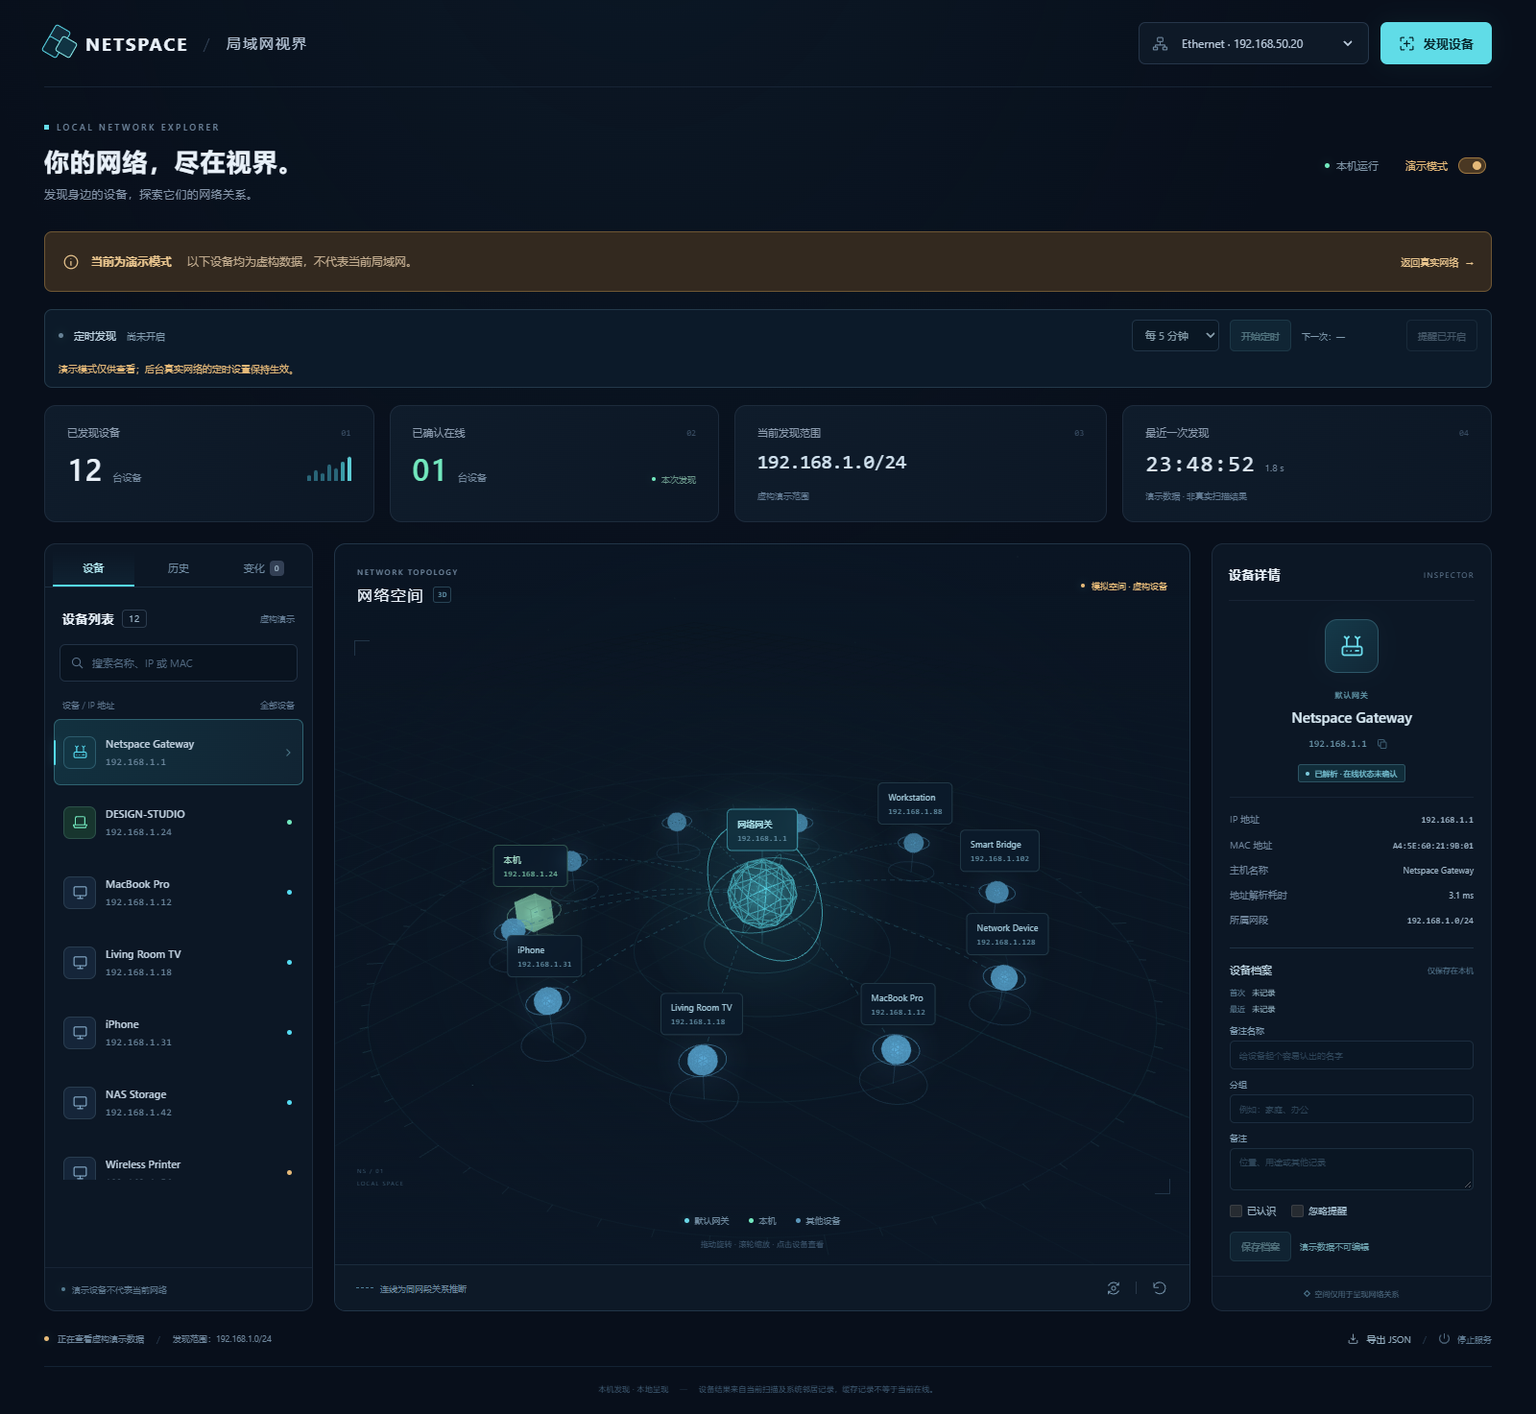
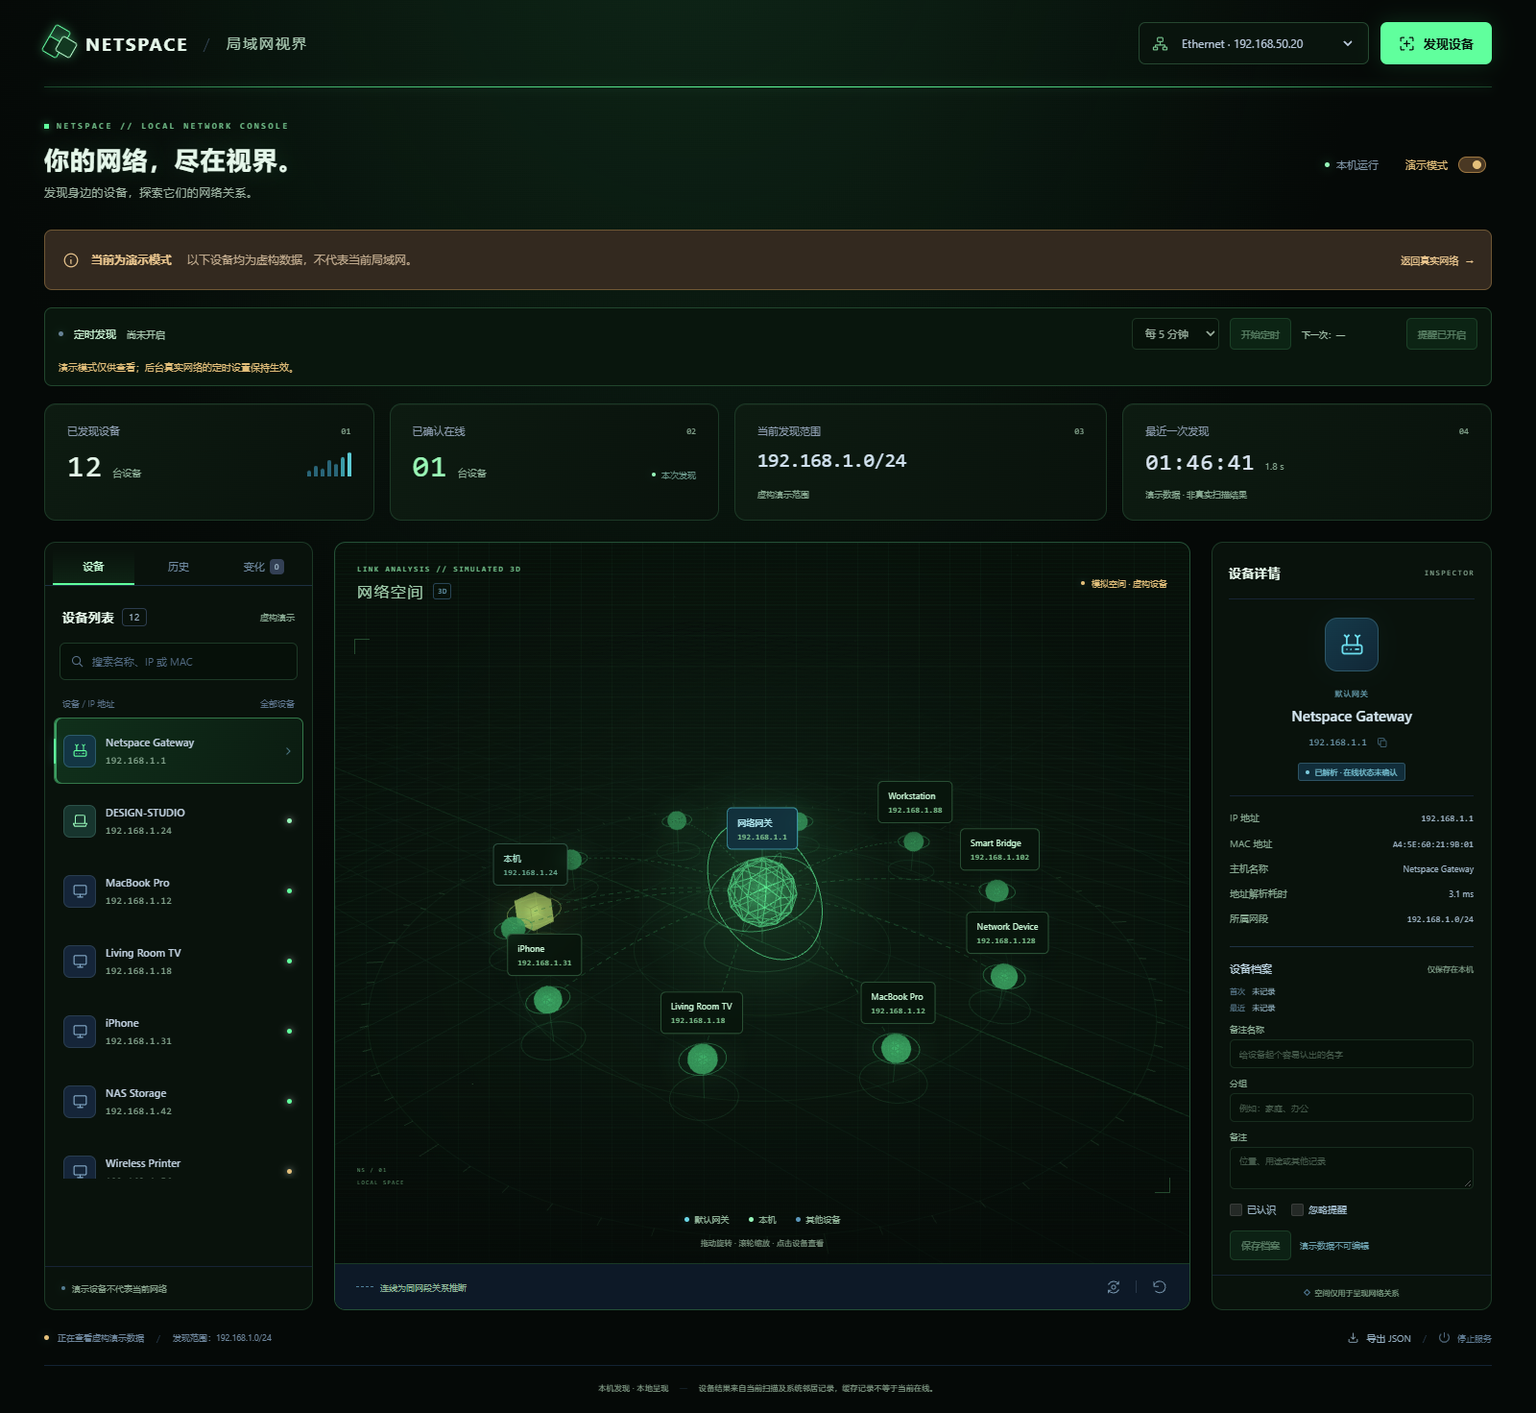
feat: apply hacker console theme

diff --git a/web/style.css b/web/style.css
@@ -8,3 +8,58 @@
 @media(max-width:1050px){.details-panel{max-height:none}.detail-content{overflow:visible;grid-template-columns:180px 1fr}.profile-form{grid-column:1/-1;grid-template-columns:1fr 1fr;column-gap:20px}.profile-heading,.observation-times,.profile-save-row{grid-column:1/-1}.profile-form>label:has(textarea){grid-column:1/-1}.profile-flags{grid-column:1/-1}.profile-save-row{padding-bottom:4px}.evidence-section{grid-column:1/-1}.detail-identity{grid-row:1/3}.observation-times{display:flex;justify-content:space-between;flex-wrap:wrap}.monitor-controls{gap:8px}}
 @media(max-width:760px){.monitor-toolbar{padding:11px 12px;gap:9px;margin-bottom:16px}.monitor-title{width:100%;gap:9px;font-size:9px}.monitor-controls{width:100%;flex-wrap:wrap;gap:8px}.monitor-controls select{height:35px;flex:1;font-size:10px}.monitor-controls .compact-button{min-height:35px}#monitor-next{order:4;width:100%;font-size:9px}.monitor-title #monitor-status{margin-left:auto;font-size:9px}.workspace-tabs>button{min-height:42px;font-size:12px}.archive-controls{padding-top:13px}.archive-controls label{font-size:10px}.archive-controls select{height:39px;font-size:11px}.archive-pane{min-height:320px}.archive-heading h2{font-size:13px}.archive-help{font-size:11px}.event-list{max-height:350px}.event-name{font-size:11px}.event-header{font-size:10px}.event-address{font-size:10px}#history-scan{min-height:215px}.replay-banner{padding:12px;gap:8px;flex-wrap:wrap}.replay-banner p{font-size:10px}.replay-banner button{margin-left:26px;font-size:10px;min-height:28px}.detail-content{grid-template-columns:112px 1fr}.profile-form{column-gap:12px;padding-top:17px;gap:11px}.profile-heading h4{font-size:12px}.profile-form>label{font-size:10px}.profile-form input:not([type=checkbox]){height:37px;font-size:11px}.profile-form textarea{font-size:11px;min-height:55px}.profile-flags{font-size:11px;gap:20px}.profile-flags label{min-height:32px}.profile-save-row .compact-button{min-height:37px;font-size:11px}.profile-save-row>span{font-size:10px}.observation-times{display:grid;gap:4px;font-size:9px}.detail-content .detail-properties{padding-top:24px}.details-panel .panel-heading{margin:0 16px}}
 @media(prefers-reduced-motion:reduce){*,*:before,*:after{animation:none!important;transition:none!important;scroll-behavior:auto!important}}
+
+/* NetSpace 1.2.0: terminal console palette */
+:root{--bg:#050907;--surface:#09120c;--line:#1c3926;--text:#e5f7ea;--muted:#91a694;--accent:#60ff9d;--cyan:var(--accent);--mint:#96f7b9;--amber:#e3bf7a}
+body{background-color:var(--bg);background-image:radial-gradient(ellipse at 42% -22%,#12351f55,transparent 55%)}
+body:before{background:radial-gradient(ellipse at 46% -20%,#1a492b55,transparent 58%)}
+.topbar{border-bottom-color:#19452a;position:relative}
+.topbar:after{position:absolute;content:"";height:1px;left:0;right:0;bottom:-1px;background:linear-gradient(90deg,transparent,#60ff9d88 18%,#60ff9d 50%,#60ff9d88 82%,transparent);box-shadow:0 0 10px #60ff9d55}
+.brand-mark span{border-color:#65ffa3;filter:drop-shadow(0 0 5px #60ff9d55)}
+.brand-mark span:first-child{background:#153323}.brand-mark span:nth-child(2){background:#0a1d11}.brand-mark span:last-child{background:#123921;border-color:#baffd0}
+.brand-chinese{color:#a8c8b1}
+.workspace-heading .eyebrow,.scene-heading .eyebrow{color:#6eb985}
+.tiny-square{background:var(--accent);box-shadow:0 0 8px #60ff9d88}
+.workspace-heading h1{text-shadow:0 0 22px #60ff9d1c}
+.page-subtitle{color:#9bb1a0}
+.button-primary{background:#60ff9d;color:#06110a;box-shadow:0 0 22px #39f68124}
+.button-primary:hover:not(:disabled){background:#8affb5;box-shadow:0 0 24px #60ff9d55}
+.button-secondary{background:#10271a;border-color:#28633d;color:#a9ffd0}
+.adapter-control{background:#09140d;border-color:#254730}
+.adapter-control .icon{color:#79c892}
+.adapter-control option{background:#09140d}
+.workspace-tools .status-dot,.local-badge .status-dot{box-shadow:0 0 11px #60ff9d77}
+.stat-card{background:linear-gradient(112deg,#0d1b11,#09120c);border-color:#1c3926;box-shadow:inset 0 1px #b3ffd00a}
+.panel{background:#09120c;border-color:#1c3926}
+.scene-panel{border-color:#245036;background:radial-gradient(ellipse at 50% 50%,#15331e66,#07100a 76%)}
+.scene-view:before{content:"";position:absolute;inset:0;pointer-events:none;z-index:1;opacity:.64;background-image:linear-gradient(to right,#62ff9d0d 1px,transparent 1px),linear-gradient(to bottom,#62ff9d0d 1px,transparent 1px);background-size:32px 32px}
+.scene-view:after{background:linear-gradient(#05100912,transparent 25%,transparent 70%,#050907b8),repeating-linear-gradient(0deg,#60ff9d05 0,#60ff9d05 1px,transparent 1px,transparent 4px)}
+.scene-heading h2,.scene-mode{color:#9fcbaa}
+.scene-coordinates{color:#5d966b}
+.scene-corner{border-color:#418553}
+.scene-node-label{border-color:#356442bb;background:#07140bcc;color:#c9f7d6;box-shadow:0 5px 18px #0008,0 0 14px #60ff9d12}
+.scene-node-label:hover,.scene-node-label:focus-visible{background:#102719ed;border-color:#69e98f;box-shadow:0 0 16px #60ff9d33}
+.scene-node-label .node-label-ip{color:#83c993}
+.device-row:hover{background:#0c1d11;border-color:#1e432a}
+.device-row[aria-pressed=true]{border-color:#34784a;background:linear-gradient(105deg,#10301b,#0b1c11);box-shadow:inset 2px 0 #60ff9d88}
+.device-row-status{box-shadow:0 0 8px currentColor}
+.search-field{background:#061009;border-color:#1d3a27}
+.search-field:focus-within{border-color:#45bc6d;box-shadow:0 0 0 2px #60ff9d1c}
+.monitor-toolbar{background:#09160d;border-color:#21462d;color:#a6c4ad}
+.monitor-title strong{color:#c7efd0}
+.monitor-controls select,.archive-controls select,.profile-form input:not([type=checkbox]),.profile-form textarea{background:#061009;border-color:#25432e;color:#d2ead7}
+.compact-button{background:#10351e;border-color:#34784a;color:#baffce}
+.compact-button:hover:not(:disabled){background:#164a28;border-color:#54b86e}
+.workspace-tabs>button[aria-selected=true]{background:linear-gradient(transparent,#18452655)}
+.workspace-tabs>button{border-bottom-color:transparent}
+.workspace-tabs>button[aria-selected=true]{border-bottom-color:var(--accent);color:#c7ffd7}
+.scene-bottom,.workspace-footer{border-color:#193a25}
+.relation-note,.scene-legend{color:#91b59a}
+.details-bottom{color:#82a68b}
+.stat-number.mint,.mint{color:#9af7b6}
+.mono,.stat-number,.stat-cidr,.stat-time,.stat-index,.eyebrow,.detail-kicker,.scene-coordinates{font-family:"Cascadia Code",Consolas,"SFMono-Regular",monospace}
+.micro-label,.detail-kicker,.stat-index,.stat-caption,.stat-unit,.device-row-ip,.detail-properties dt,.profile-heading>span,.profile-form>label{color:#87a891}
+.profile-form input::placeholder,.profile-form textarea::placeholder{color:#71907a}
+.device-panel-bottom,.privacy-note,.scene-interaction-hint{color:#85a08a}
+.button:focus-visible,.compact-button:focus-visible,.icon-button:focus-visible,.text-button:focus-visible{outline-color:#81ffad}
+@media(prefers-reduced-motion:reduce){.scene-view:before,.scene-view:after{animation:none!important}}

diff --git a/web/scene.js b/web/scene.js
@@ -1,7 +1,7 @@
 import * as THREE from 'three';
 import { OrbitControls } from '/vendor/OrbitControls.js';
 
-const COLORS = { gateway: 0x58d9e9, self: 0x9cf4cb, device: 0x65bff1 };
+const COLORS = { gateway: 0x63ff9e, self: 0xd9ff80, device: 0x47c977 };
 const TAU = Math.PI * 2;
 
 function getSatellitePosition(index, count) {
@@ -39,14 +39,14 @@ export function createNetworkScene({ container, labels, onSelect = () => {} }) {
   const reducedMotion = window.matchMedia('(prefers-reduced-motion: reduce)');
   const renderer = new THREE.WebGLRenderer({ antialias: true, alpha: true, powerPreference: 'low-power' });
   renderer.setPixelRatio(Math.min(window.devicePixelRatio || 1, 1.75));
-  renderer.setClearColor(0x071019, 0);
+  renderer.setClearColor(0x050907, 0);
   renderer.outputColorSpace = THREE.SRGBColorSpace;
   renderer.domElement.setAttribute('aria-label', '模拟网络关系空间；可拖动旋转、滚轮缩放，或在设备列表中选择设备');
   renderer.domElement.setAttribute('role', 'img');
   container.appendChild(renderer.domElement);
 
   const scene = new THREE.Scene();
-  scene.fog = new THREE.FogExp2(0x071019, 0.026);
+  scene.fog = new THREE.FogExp2(0x050907, 0.026);
   const camera = new THREE.PerspectiveCamera(45, 1, 0.1, 110);
   const home = new THREE.Vector3(12.5, 10.5, 15.5);
   camera.position.copy(home);
@@ -68,7 +68,7 @@ export function createNetworkScene({ container, labels, onSelect = () => {} }) {
   const linkGroup = new THREE.Group();
   scene.add(atmosphere, linkGroup, nodeGroup);
 
-  const grid = new THREE.GridHelper(66, 44, 0x164553, 0x102c38);
+  const grid = new THREE.GridHelper(66, 44, 0x23683b, 0x123321);
   grid.material.transparent = true;
   grid.material.opacity = 0.5;
   atmosphere.add(grid);
@@ -86,7 +86,7 @@ export function createNetworkScene({ container, labels, onSelect = () => {} }) {
   }
 
   [3.3, 6.2, 9.5, 13.2].forEach((radius, i) => {
-    atmosphere.add(lineRing(radius, 0x236879, 0.23 - i * 0.025));
+    atmosphere.add(lineRing(radius, 0x287344, 0.23 - i * 0.025));
   });
 
   // Short ticks give the floor a calibrated visual rhythm without implying distance.
@@ -100,7 +100,7 @@ export function createNetworkScene({ container, labels, onSelect = () => {} }) {
   }
   atmosphere.add(new THREE.LineSegments(
     new THREE.BufferGeometry().setFromPoints(tickPoints),
-    new THREE.LineBasicMaterial({ color: 0x3b7a87, transparent: true, opacity: 0.3 })
+    new THREE.LineBasicMaterial({ color: 0x55a96a, transparent: true, opacity: 0.3 })
   ));
 
   const starPositions = new Float32Array(105 * 3);
@@ -113,7 +113,7 @@ export function createNetworkScene({ container, labels, onSelect = () => {} }) {
   }
   const starsGeometry = new THREE.BufferGeometry();
   starsGeometry.setAttribute('position', new THREE.BufferAttribute(starPositions, 3));
-  atmosphere.add(new THREE.Points(starsGeometry, new THREE.PointsMaterial({ color: 0x78c4d4, size: 0.035, transparent: true, opacity: 0.4, depthWrite: false })));
+  atmosphere.add(new THREE.Points(starsGeometry, new THREE.PointsMaterial({ color: 0x75d88f, size: 0.035, transparent: true, opacity: 0.4, depthWrite: false })));
 
   const glowCanvas = document.createElement('canvas');
   glowCanvas.width = glowCanvas.height = 128;
@@ -270,7 +270,7 @@ export function createNetworkScene({ container, labels, onSelect = () => {} }) {
       const midpoint = start.clone().lerp(end, 0.5);
       midpoint.y += Math.min(start.distanceTo(end) * 0.12, 1.1);
       const curve = new THREE.QuadraticBezierCurve3(start, midpoint, end);
-      const material = new THREE.LineDashedMaterial({ color: 0x347d91, transparent: true, opacity: 0.45, dashSize: 0.12, gapSize: 0.1, depthWrite: false });
+      const material = new THREE.LineDashedMaterial({ color: 0x318c50, transparent: true, opacity: 0.48, dashSize: 0.12, gapSize: 0.1, depthWrite: false });
       const line = new THREE.Line(new THREE.BufferGeometry().setFromPoints(curve.getPoints(55)), material);
       line.computeLineDistances();
       line.userData.source = String(link.source);

diff --git a/web/index.html b/web/index.html
@@ -3,7 +3,7 @@
 <head>
   <meta charset="UTF-8">
   <meta name="viewport" content="width=device-width, initial-scale=1">
-  <meta name="theme-color" content="#080f1b">
+  <meta name="theme-color" content="#050907">
   <meta name="description" content="本机局域网设备发现与三维网络关系可视化。空间位置为模拟布局。">
   <title>NETSPACE · 局域网视界</title>
   <link rel="stylesheet" href="/style.css">
@@ -47,7 +47,7 @@
 
     <main id="main">
       <section class="workspace-heading" aria-labelledby="page-title">
-        <div><div class="eyebrow"><span class="tiny-square"></span> LOCAL NETWORK EXPLORER</div><h1 id="page-title">你的网络，尽在视界。</h1><p class="page-subtitle">发现身边的设备，探索它们的网络关系。</p></div>
+        <div><div class="eyebrow"><span class="tiny-square"></span> NETSPACE // LOCAL NETWORK CONSOLE</div><h1 id="page-title">你的网络，尽在视界。</h1><p class="page-subtitle">发现身边的设备，探索它们的网络关系。</p></div>
         <div class="workspace-tools"><span class="local-badge"><span class="status-dot"></span>本机运行</span><button class="demo-switch" id="demo-toggle" type="button" role="switch" aria-checked="false"><span>演示模式</span><span class="switch-track" aria-hidden="true"><span></span></span></button></div>
       </section>
 
@@ -84,7 +84,7 @@
         </aside>
 
         <section class="scene-panel" aria-labelledby="scene-title">
-          <div class="scene-heading"><div><div class="eyebrow">NETWORK TOPOLOGY</div><h2 id="scene-title">网络空间 <span class="space-badge">3D</span></h2></div><span class="scene-mode" id="scene-mode"><span></span>模拟空间 · 真实设备</span></div>
+          <div class="scene-heading"><div><div class="eyebrow">LINK ANALYSIS // SIMULATED 3D</div><h2 id="scene-title">网络空间 <span class="space-badge">3D</span></h2></div><span class="scene-mode" id="scene-mode"><span></span>模拟空间 · 真实设备</span></div>
           <div id="scan-progress" class="scan-progress" hidden><div class="scan-progress-label"><span class="loading-ring"></span><span id="progress-message">正在发现设备…</span><span id="progress-number"></span></div><div class="progress-track"><span id="progress-bar"></span></div></div>
           <div class="scene-view" id="scene-view">
             <div id="scene-canvas" aria-hidden="true"></div>

diff --git a/tools/packaged_smoke.py b/tools/packaged_smoke.py
@@ -55,7 +55,7 @@ def main():
                 raise RuntimeError('Packaged application exited before startup')
             try:
                 health = request('/api/health', timeout=1)
-                assert health == {'app': 'NetSpace', 'version': '1.1.0'}
+                assert health == {'app': 'NetSpace', 'version': '1.2.0'}
                 break
             except Exception:
                 if time.monotonic() > deadline:

diff --git a/app.py b/app.py
@@ -20,7 +20,7 @@ from monitoring import MonitorController
 from network_store import NetworkStore
 
 
-VERSION = '1.1.0'
+VERSION = '1.2.0'
 RESOURCE_ROOT = Path(getattr(sys, '_MEIPASS', Path(__file__).resolve().parent))
 WEB_ROOT = RESOURCE_ROOT / 'web'
 LOGGER = logging.getLogger('netspace')

diff --git a/docs/superpowers/plans/2026-11-20-netspace-hacker-iterations.md b/docs/superpowers/plans/2026-11-20-netspace-hacker-iterations.md
@@ -1,0 +1,45 @@
+# NetSpace Hacker Style and Security Iteration Plan
+
+> **For agentic workers:** Follow the three ordered iterations below. Each iteration ends with verification, a README update, a separate commit on `main`, and a push to `origin/main`.
+
+**Goal:** Give NetSpace a distinctive hacker-style Windows UI, add useful device filtering, and improve browser-side security without changing LAN discovery boundaries.
+
+**Architecture:** Preserve the local Python HTTP service and offline frontend. Use CSS tokens for the new visual system, a client-side status filter over the existing device result, and one shared response header for a restrictive CSP.
+
+**Tech Stack:** Python 3.8 standard library, unittest, HTML/CSS/ES modules, Three.js 0.187.0, Playwright Chromium.
+
+---
+
+### Iteration 1: Hacker console UI (1.2.0)
+
+**Files:** `web/style.css`, `web/index.html`, `web/scene.js`, `app.py`, `tools/packaged_smoke.py`, `README.md`, `docs/images/netspace-demo.png`, `docs/superpowers/specs/2026-11-20-netspace-hacker-iterations-design.md`, `tools/ui_smoke.cjs`.
+
+- [x] Apply a black/green terminal theme with shared CSS tokens, clear focus states, reduced-motion support, and restrained topology grid/scanline styling.
+- [x] Update the browser theme color and app version to 1.2.0.
+- [x] Run the existing browser smoke check against isolated demo fixtures; verify screenshot, no horizontal overflow at 375px, no external requests and no JS errors.
+- [x] Save the synthetic demo screenshot to `docs/images/netspace-demo.png`; update the README version, screenshot description and a dated 1.2.0 iteration entry.
+- [ ] Run Python tests and `git diff --check`; commit and push `feat: apply hacker console theme`.
+
+### Iteration 2: Device evidence filters (1.3.0)
+
+**Files:** `web/index.html`, `web/app.js`, `web/style.css`, `tools/ui_smoke.cjs`, `README.md`.
+
+Add one labelled native select with `all`, `online`, `resolved`, `cached`, and `unverified` options. Its predicate is exact: `all` accepts every record; other options match `device.status` exactly. Apply status before search, keep selection and detail semantics unchanged, and show visible/total counts whenever either filter is active. Reset filter state when returning to the full device view from demo/replay or changing adapter.
+
+- [ ] Extend the Playwright demo fixture check to assert each status filter, combined search/filter behavior, and restoration to all devices.
+- [ ] Run the new browser assertions first and confirm they fail because the control/behavior is absent.
+- [ ] Implement the labelled selector and exact status predicate; style its keyboard, hover and disabled states in the hacker theme.
+- [ ] Run browser recovery and smoke tests, Python unit tests and mobile overflow checks.
+- [ ] Add a dated 1.3.0 README entry; run `git diff --check`; commit and push `feat: filter devices by discovery evidence`.
+
+### Iteration 3: Content Security Policy (1.3.1)
+
+**Files:** `app.py`, `tests/test_app.py`, `web/index.html` only if the import-map hash requires stable formatting, `README.md`.
+
+Emit this policy from the single response path, using the verified SHA-256 hash of the static import map instead of allowing arbitrary inline scripts: `default-src 'self'; script-src 'self' <import-map-hash>; style-src 'self' 'unsafe-inline'; img-src 'self' data:; connect-src 'self'; font-src 'self'; object-src 'none'; base-uri 'none'; form-action 'self'; frame-ancestors 'none'`. Keep `unsafe-inline` limited to styles because current Three.js scene labels use runtime style properties.
+
+- [ ] Add API and static-response tests asserting CSP, same-origin restrictions and `object-src 'none'`; confirm the new assertions fail against the current server.
+- [ ] Add the CSP header, calculated from the exact import-map payload, and keep it stable with an assertion.
+- [ ] Run all Python tests and browser UI/recovery checks; inspect Chromium console for CSP violations and verify the Three.js canvas loads without external requests.
+- [ ] Add a dated 1.3.1 README entry describing the mitigation and residual risk accurately.
+- [ ] Run `git diff --check`; commit and push `security: add restrictive content security policy`.

diff --git a/docs/superpowers/specs/2026-11-20-netspace-hacker-iterations-design.md b/docs/superpowers/specs/2026-11-20-netspace-hacker-iterations-design.md
@@ -1,0 +1,19 @@
+# NetSpace Hacker UI and Iterative Hardening
+
+## Context
+
+NetSpace already provides Windows-only LAN discovery, persistent device records, history, monitoring and an offline Three.js topology. The current interface is dark and responsive, but its blue/cyan palette reads like a conventional monitoring dashboard rather than the requested hacker-style network console. Existing discovery evidence and safety boundaries must remain explicit.
+
+## Design
+
+Keep the current three-column workflow and all existing behavior. Establish a black/green terminal-console visual system through shared CSS tokens, a restrained grid/scanline treatment in the topology viewport, brighter status/focus feedback, green Three.js node materials and monospace emphasis for addresses and telemetry. Avoid flashing, matrix-rain animation, color-only status cues and layout changes that harm mobile or keyboard use. Refresh the README screenshot using only the application's synthetic demo data.
+
+Then add a discovery-status filter for all devices, confirmed-online devices, resolved-but-not-confirmed devices, cached records, and unverified devices. The filter composes with current search, updates visible counts, and does not relabel evidence.
+
+Finally, strengthen loopback HTTP responses with a Content Security Policy that permits the bundled same-origin modules and the exact static import map, blocks external connections and plugin/object content, and works with the existing inline positioning styles. Preserve current Origin/Host protections and offline behavior.
+
+## Validation and delivery
+
+Each iteration receives its own README entry, fresh relevant tests and an independent commit on `main`, then is pushed to `origin/main`. UI changes are checked in Chromium at desktop and 375px widths with reduced motion and synthetic fixtures. Security changes are tested on both JSON and HTML responses and exercised by Chromium to prove the import map and 3D modules still load. Python tests, browser checks and git diff checks run before each commit.
+
+The security review reports evidence and residual exposure; it must never claim that all vulnerabilities are eliminated. This application intentionally scans only the user's selected local network and does not infer real-world device locations.
